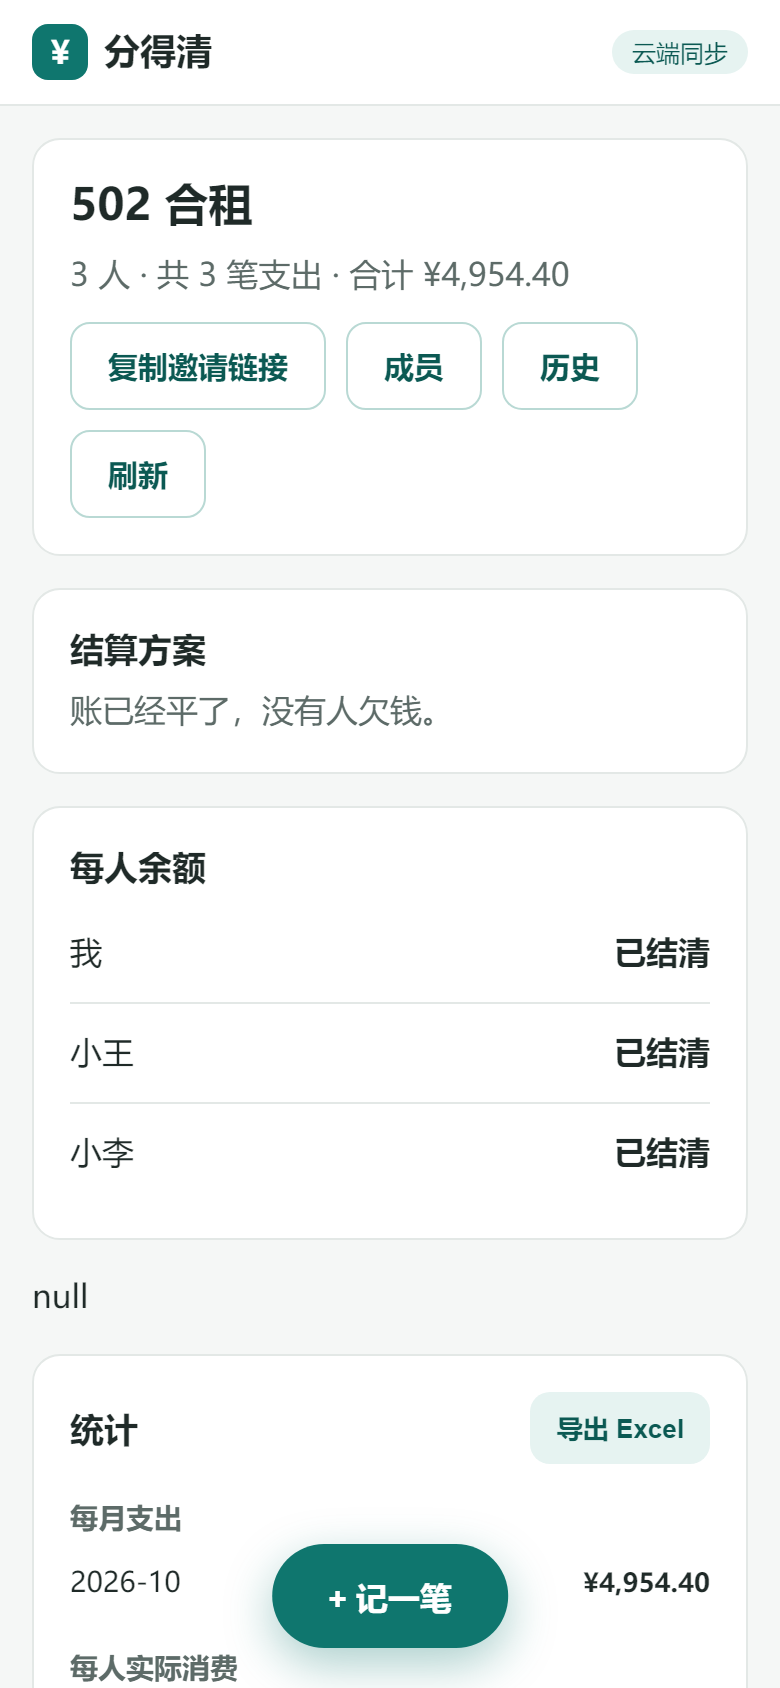
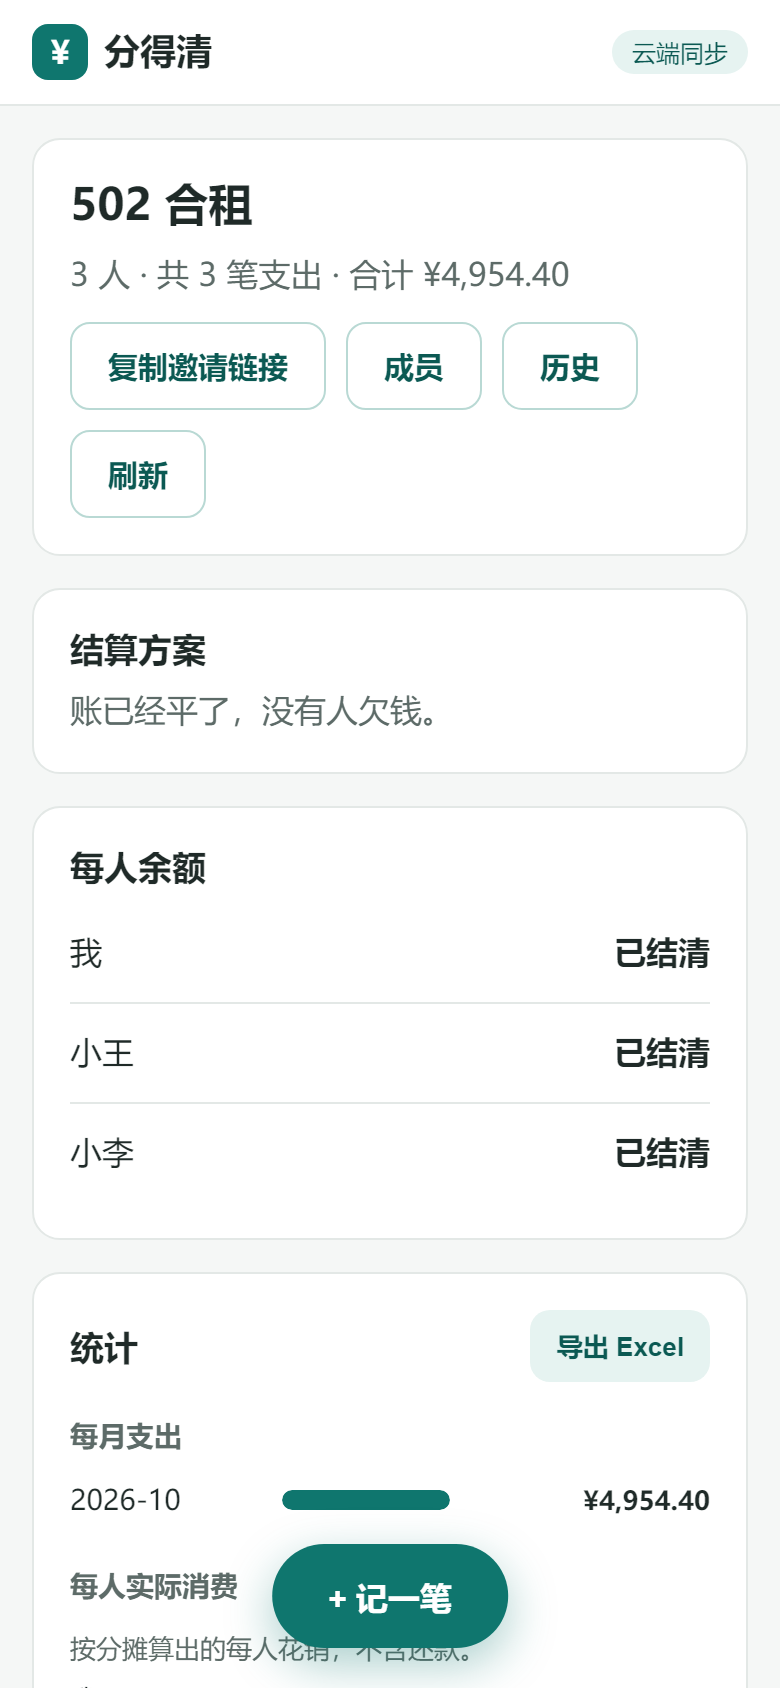
fix: 没有周期账单时账本页多出 null 文本；补 e2e 检查；提交文档加视频与访问方式 (#24)

diff --git a/site/js/ledger.js b/site/js/ledger.js
@@ -119,7 +119,7 @@ function paint(root) {
         })));
 
   const fab = h('button', { class: 'fab', onclick: () => openEntryDialog(root) }, '+ 记一笔');
-  root.replaceChildren(header, settle, balanceList, recurringCard(root), statsCard(), entryList, fab);
+  root.replaceChildren(...[header, settle, balanceList, recurringCard(root), statsCard(), entryList, fab].filter(Boolean));
 }
 
 // ---------- 周期账单 ----------

diff --git a/毕业项目提交.md b/毕业项目提交.md
@@ -103,14 +103,27 @@
 
 - 结算算法单元测试 37 项（结算、周期账单日期与多币种 28 项，统计与 xlsx 导出 9 项），含分摊算法 500 组随机数据的总和守恒检查
 - 数据库测试 29 项，在内存 Postgres（PGlite）里跑真实的 schema.sql 和迁移脚本，并验证从旧版数据库升级后数据、全部函数定义与权限一致
-- 线上端到端测试 83 项，覆盖核心流程、周期账单（补记、不重复记、删除后流水保留）、多币种（折算、编辑回填、汇率预填）、统计与导出 Excel（真实下载并解析）、按比例/按金额分摊、编辑支出、成员管理、撤销删除与历史恢复、数据保存、跨设备同步、并发标记已还、异常提示、手机端横向溢出和 XSS
+- 线上端到端测试 85 项，覆盖核心流程、周期账单（补记、不重复记、删除后流水保留）、多币种（折算、编辑回填、汇率预填）、统计与导出 Excel（真实下载并解析）、按比例/按金额分摊、编辑支出、成员管理、撤销删除与历史恢复、数据保存、跨设备同步、并发标记已还、异常提示、手机端横向溢出和 XSS
 - 线上数据库用匿名密钥实测：直接读表（含操作日志表）、调用内部函数均被拒绝（42501），超大数组请求被拦截
 
 全部通过。
 
-## 7. 访问方式
+## 7. 产品展示视频
 
-- 网站：https://fendeqing-aa.netlify.app
+文件：`deliverables/分得清-产品展示.mp4`（2 分 06 秒，1920×1080，中文配音 + 字幕）。右侧画面是在线上网站实际操作的录屏（手机尺寸），左侧是当前步骤的说明。
+
+| 时间 | 内容 |
+|---|---|
+| 0:00–0:30 | 目标用户与问题：轮流垫钱后算不清、不好催款；现有方案（微信群、Excel、Splitwise）的不足；分得清怎么解决 |
+| 0:30–1:52 | 现场演示：新建账本 → 记一笔（均摊）→ 只算参与的人 → 房租按比例分并设为每月重复 → 自动生成结算方案 → 室友在另一台设备记账、刷新即同步 → 标记已还 → 统计与导出 Excel → 误删撤销与历史记录 |
+| 1:52–2:06 | 总结价值，展示网址和二维码，邀请试用 |
+
+演示数据是现场新建的示例账本（成员"我、小王、小李"），不含真实个人信息；画面里没有浏览器地址栏、API Key 或账号密码。
+
+## 8. 访问方式
+
+- 网站：https://fendeqing-aa.netlify.app ，手机或电脑浏览器直接打开，不用注册。手机上可以用浏览器的"添加到主屏幕"，之后从桌面图标打开。
+- App：本项目是网站，没有原生 App，不涉及 Preview 安装包。
 - 代码仓库：https://github.com/LIVE-chen/fendeqing
 - 任务看板（P0/P1/P2）：https://github.com/users/LIVE-chen/projects/2
 - 已接入 Supabase 云端：页面右上角显示"云端同步"，把账本链接发给别人，对方在任何设备上打开都能查看和记账。
